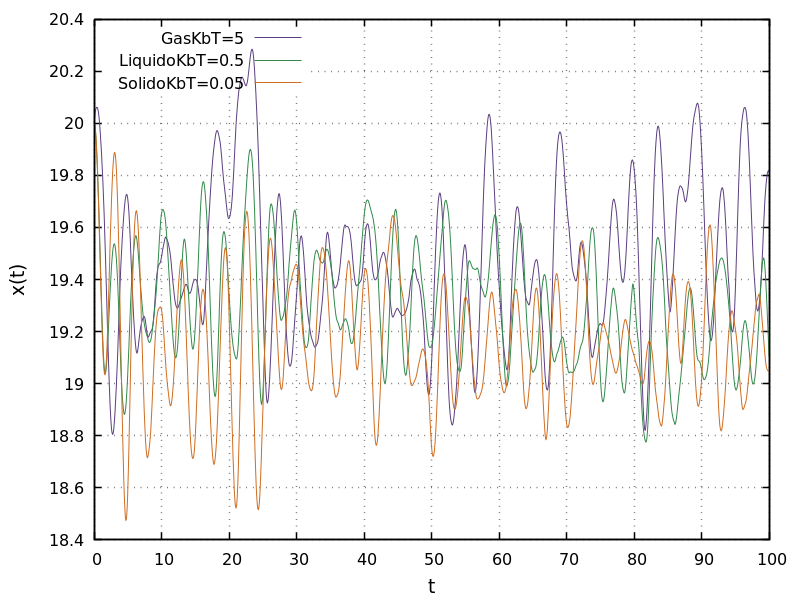
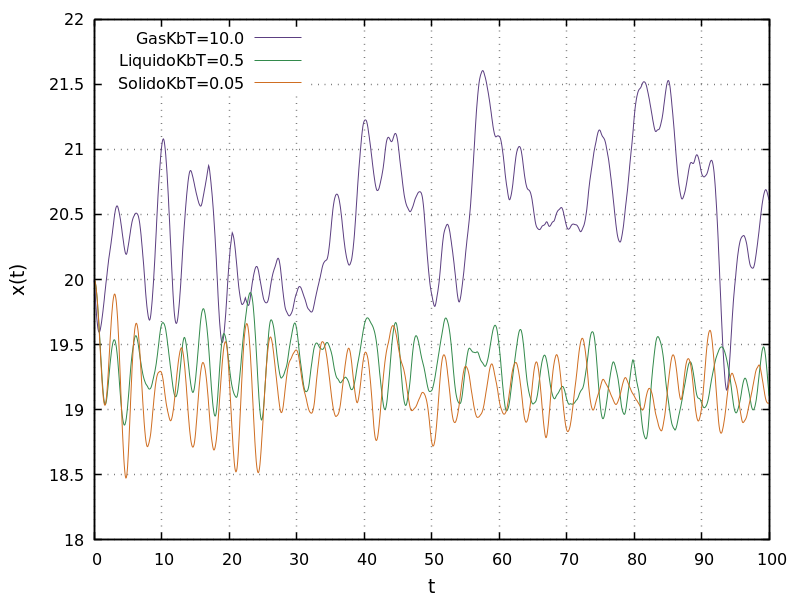
Correcion KbT para el gas

diff --git a/Talleres/Taller 1/Gas_de_Lennard-Jones/4.2_GasDeLennard-Jones.cpp b/Talleres/Taller 1/Gas_de_Lennard-Jones/4.2_GasDeLennard-Jones.cpp
@@ -177,9 +177,8 @@ int main(){
 Como podemos observar en la simulación el potencial de Lennard Jones se puede interpretar como un resorte entre las particulas facil de elongar 
 pero difícil de comprimir. En este caso se pone una pared circular para que las particulas reboten con ella y no escapen. Vemos que el valor de
 KbT afecta la dinámica de las particulas de manera que si:
-- KbT = 0.05 (Sólido), las particulas se mueven muy poco manteniendo practicamente sus posiciones originales, por lo que el compuesto mantiene 
-  su forma original.
-- KbT = 0.5 (Líquido), las particulas se mueven de manera más libre y se desplazan por la caja cambiando de forma.
-- KbT = 5.0 (Gas), las particulas se desplazan mucho más, alejandose de sus posiciones originiales, sin embargo el potencial entre las fuerzas 
-  sigue siendo bastante fuerte para mantenerlas relativamente agrupadas aunque no conserven la forma inicial.
+  - KbT = 0.05 (Sólido), las partículas se mueven muy poco manteniendo prácticamente sus posiciones originales, por lo que el compuesto mantiene 
+       su forma original.
+  - KbT = 0.5 (Líquido), las partículas se mueven de manera más libre y se desplazan por la caja cambiando de forma.
+  - KbT = 10.0 (Gas), las partículas se desplazan mucho más, alejándose de sus posiciones originales, por lo que el compuesto no conserva la forma inicial.
 */

diff --git a/Talleres/Taller 1/Gas_de_Lennard-Jones/4.3_GasDeLennard-Jones.cpp b/Talleres/Taller 1/Gas_de_Lennard-Jones/4.3_GasDeLennard-Jones.cpp
@@ -118,7 +118,7 @@ int main(){
   int i,ix,iy;
   //Parametros de la simulación
   double m0=1.0; double R0=2.0; //Masas y radios de las particulas
-  double KbT=5; //Constante de Boltzmann 
+  double KbT=10.0; //Constante de Boltzmann 
   double dx=10.0,dy=10.0; //Separación entre partículas
   double theta; double V0=sqrt(KbT/m0), omega0=3*M_PI;//omega es la velocidad angular inicial;
   double x0,y0,Vx0,Vy0;
